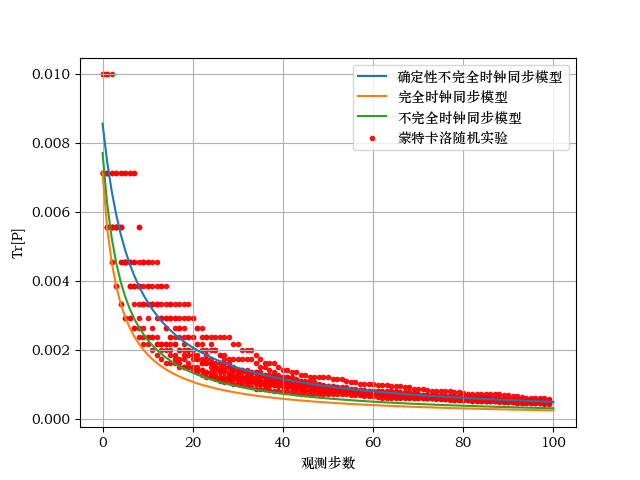
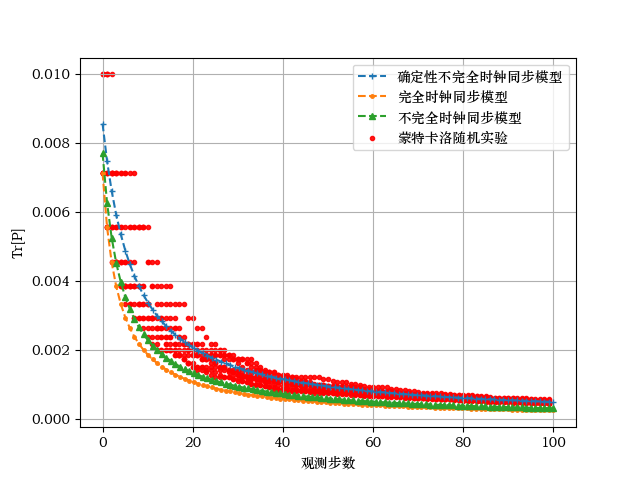
中国电机工程学报论文仿真

Changed region(s): [[0.1562, 0.3125, 0.875, 0.875], [0.5625, 0.2188, 0.5938, 0.25], [0.1562, 0.25, 0.1875, 0.2812]]

diff --git a/PKvsEpoch.py b/PKvsEpoch.py
@@ -1,10 +1,12 @@
 """
 不同时钟同步模型协方差随迭代次数的变化曲线
 """
+import random
 import numpy as np
 from matplotlib import pyplot as plt
 from scipy.stats import bernoulli
 
+random.seed(1)
 # 时钟同步参数
 tao = 0.1  # 采样周期
 R = 0.1  # 随机时延协方差
@@ -81,10 +83,15 @@ plt.figure(1)
 plt.grid(True)
 plt.xlabel('观测步数')
 plt.ylabel('Tr[P]')
-plt.plot(np.linspace(0, loops_kar, loops_kar), Ps_avg, label='确定性不完全时钟同步模型')
-plt.scatter([range(0, loops_kar)] * loops_mc, Ps_mc, color='red', marker='.', alpha=0.9, label='蒙特卡洛随机实验')
-plt.plot(np.linspace(0, loops_kar, loops_kar), Ps_cmp, label='完全时钟同步模型')
-plt.plot(np.linspace(0, loops_kar, loops_kar), Ps_bwq, label='不完全时钟同步模型')
+marker_size = 5
+plt.plot(np.linspace(0, loops_kar, loops_kar), Ps_avg, linestyle='--', marker='+',
+         markersize=marker_size, label='确定性不完全时钟同步模型')
+plt.scatter([range(0, loops_kar)] * loops_mc, Ps_mc, color='red', marker='.',
+            alpha=0.9, label='蒙特卡洛随机实验')
+plt.plot(np.linspace(0, loops_kar, loops_kar), Ps_cmp, linestyle='--', marker='.',
+         markersize=marker_size, label='完全时钟同步模型')
+plt.plot(np.linspace(0, loops_kar, loops_kar), Ps_bwq, linestyle='--', marker='^',
+         markersize=marker_size, label='不完全时钟同步模型')
 plt.legend()
 plt.savefig('fig2')
 plt.show()

diff --git a/UvsEpoch.py b/UvsEpoch.py
@@ -1,11 +1,13 @@
 """
 不同时钟同步模型吞吐量随迭代步数的变化曲线
 """
+import random
 import numpy as np
 from matplotlib import pyplot as plt
 from scipy.stats import bernoulli
 from Lyapunov import get_U, delt_e
 
+random.seed(1)
 # 时钟同步参数
 tao = 0.1  # 采样周期
 R = 0.1  # 随机时延协方差
@@ -90,10 +92,14 @@ plt.figure(1)
 plt.grid(True)
 plt.xlabel('观测步数')
 plt.ylabel('U(bps)')
-plt.plot(np.linspace(0, loops_kar, loops_kar), Us_avg, label='确定性不完全时钟同步模型')
+marker_size = 4
+plt.plot(np.linspace(0, loops_kar, loops_kar), Us_avg,  linestyle='--', marker='+',
+         markersize=marker_size, label='确定性不完全时钟同步模型')
 plt.scatter([range(0, loops_kar)] * loops_mc, Us_mc, color='red', marker='.', alpha=0.9, label='蒙特卡洛随机实验')
-plt.plot(np.linspace(0, loops_kar, loops_kar), Us_cmp, label='完全时钟同步模型')
-plt.plot(np.linspace(0, loops_kar, loops_kar), Us_bwq, label='不完全时钟同步模型')
+plt.plot(np.linspace(0, loops_kar, loops_kar), Us_cmp,  linestyle='--', marker='.',
+         markersize=marker_size, label='完全时钟同步模型')
+plt.plot(np.linspace(0, loops_kar, loops_kar), Us_bwq,  linestyle='--', marker='^',
+         markersize=marker_size, label='不完全时钟同步模型')
 plt.legend()
-plt.savefig('fig4')
+plt.savefig('fig3')
 plt.show()

diff --git a/test.py b/test.py
@@ -2,5 +2,5 @@ import numpy as np
 import matplotlib
 from scipy.stats import bernoulli
 
-gamma = bernoulli.rvs(p=0.5, size=10)
-print(type(gamma))
+image = np.array([[1,1,1],[1,1,0],[1,0,1]])
+print(image)
